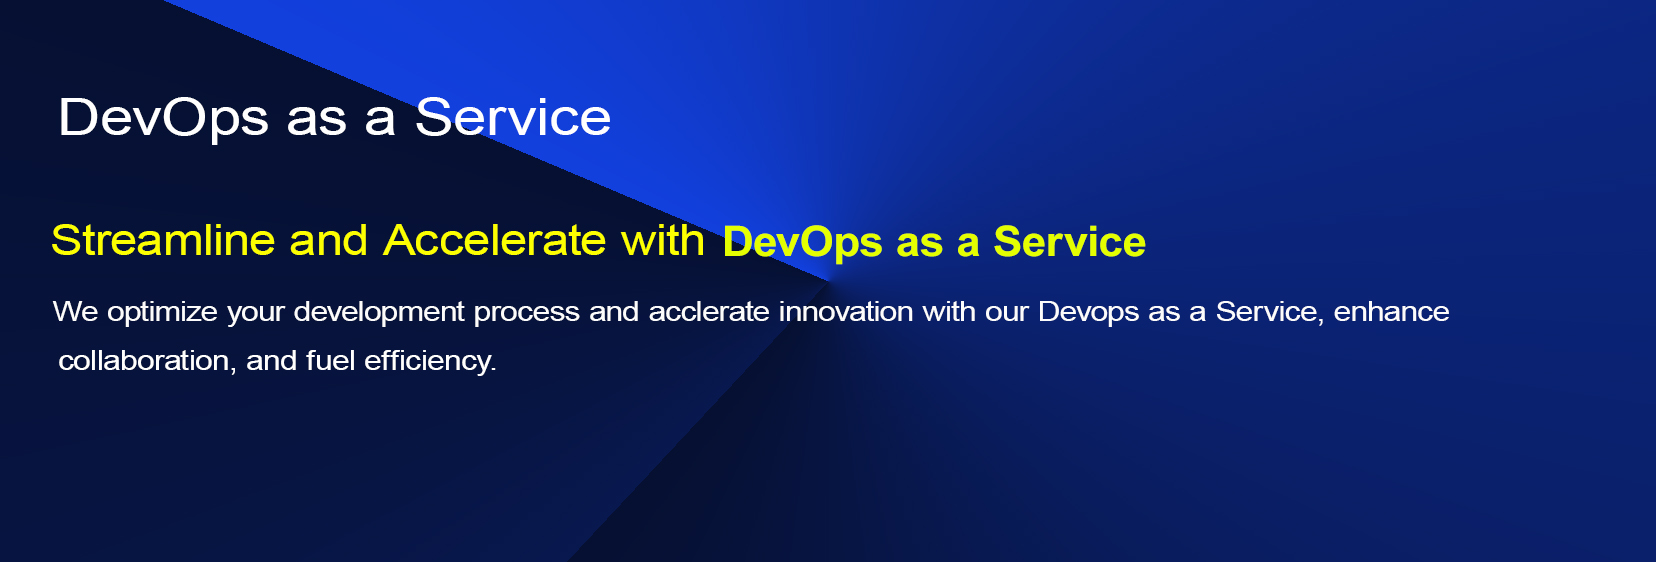
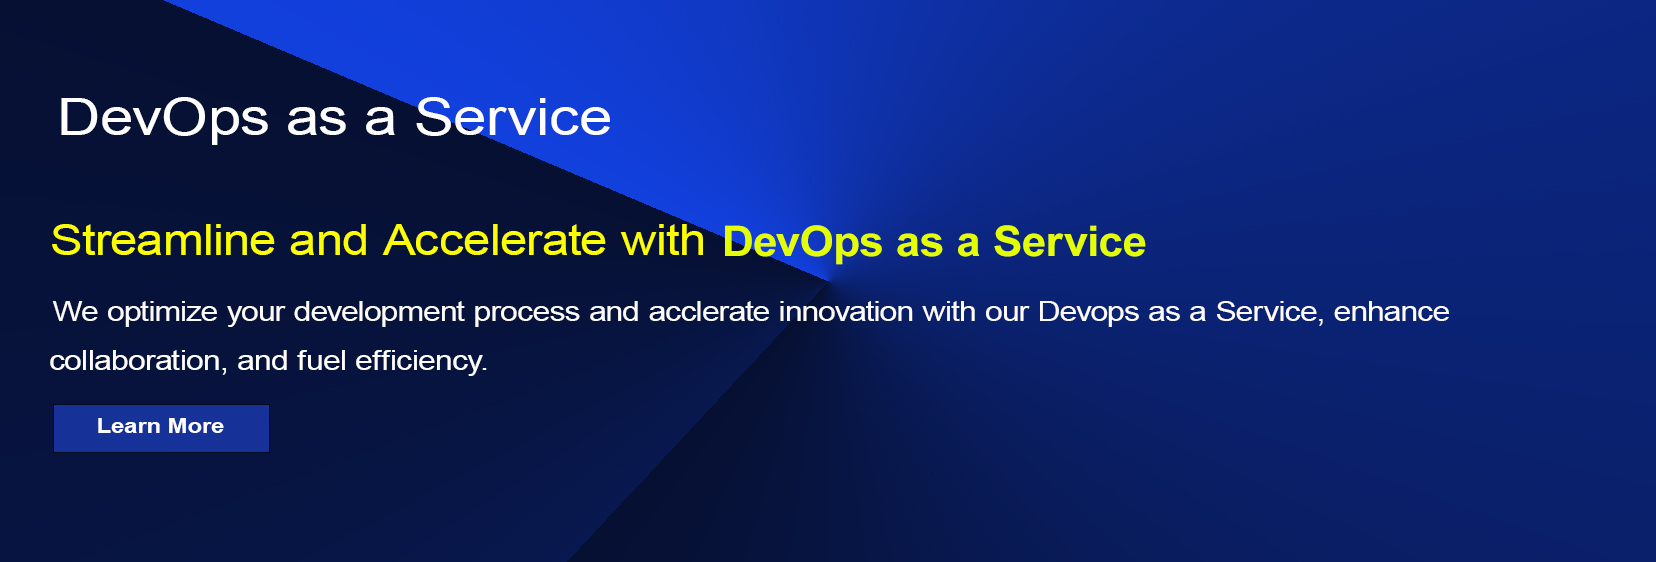
Carosel buttons added

Changed region(s): [[0.0308, 0.6957, 0.1848, 0.8167], [0.0308, 0.605, 0.308, 0.6655]]

diff --git a/src/components/Home.js b/src/components/Home.js
@@ -18,24 +18,39 @@ function Home(){
             		<div className="col-14 mx-auto">
        					 <div className="carousel-wrapper">
           					  	<Carousel infiniteLoop useKeyboardArrows autoPlay showThumbs={false} >
-               						 <div href="/home">
-                						<img src="../Image/Carousel/DevopsasServicesdoc.jpg"   />
+									
+									<NavLink to="/Services" >
+									 <div href="/home">
+                						<img src="../Image/Carousel/DevopsasServicesdoc.jpg"  /> 
+										{/* <img src="../Image/Carousel/DevopsasServicesdocnew.jpg"  /> 		 */}
                						 </div>
-                					 <div>
+									</NavLink>
+									<NavLink to="/24x7-sre" >
+                					 <div  >
                   						  <img src="../Image/Carousel/sresilde.jpg" />
                 					</div>
+									</NavLink>
+									<NavLink to="/managed-services" >
                						 <div>
-                   						  <img src="../Image/Carousel/managedservices.jpg" />
+                   			
+											 <img src="../Image/Carousel/managedservicesnew.jpg" />
                 					</div>
+									</NavLink>
+									<NavLink to="/manpower-and-technology-consulting" >
                 					<div>
                   						  <img src="../Image/Carousel/manpowerslide.jpg" />
                						 </div>
+										</NavLink>
+										<NavLink to="/software-testing" >
 										<div>
-                   							 <img src="../Image/Carousel/softwaretestingslide.jpg" />
+                   							 <img src="../Image/Carousel/sofwaretestingslide.jpg" />
                							 </div>
+											</NavLink>
+											<NavLink to="/cloud-security" >
                 					<div>
                    						 <img src="../Image/Carousel/cloudslide.jpg" />
                 					</div>
+									</NavLink>
            					 </Carousel>
        					 </div>
         			</div>
@@ -44,10 +59,39 @@ function Home(){
 
 
 
+				{/* <p>
+  <a class="btn btn-primary" data-bs-toggle="collapse.show" data-bs-target="#multiCollapseExample1" role="button" aria-expanded="false" aria-controls="multiCollapseExample1">Toggle first element</a>
+  <button class="btn btn-primary" type="button" data-bs-toggle="collapse.show" data-bs-target="#multiCollapseExample2"  aria-expanded="false" aria-controls="multiCollapseExample2">Toggle second element</button>
+  <button class="btn btn-primary" type="button" data-bs-toggle="collapse" data-bs-target=".multi-collapse" aria-expanded="false" aria-controls="multiCollapseExample3">Toggle both elements</button>
+</p>
+<div class="row">
+  <div class="col">
+    <div class="collapse multi-collapse" id="multiCollapseExample1">
+    
+        Some placeholder content for the first collapse component of this multi-collapse example. This panel is hidden by default but revealed when the user activates the relevant trigger.
+      
+    </div>
+  </div>
+  <div class="col">
+    <div class="collapse multi-collapse" id="multiCollapseExample2">
+      <div class="card card-body">
+        Some placeholder content for the second collapse component of this multi-collapse example. This panel is hidden by default but revealed when the user activates the relevant trigger.
+      </div>
+    </div>
+  </div>
+  <div class="col">
+    <div class="collapse multi-collapse" id="multiCollapseExample3">
+      <div class="card card-body">
+        Some placeholder content for the second collapse component of this multi-collapse example. This panel is hidden by default .
+      </div>
+    </div>
+  </div>
+</div> */}
+
 
 				
 
-		 				<div className="row AbutUs">
+		 				{/* <div className="row AbutUs">
   							<button className="btnbtn-default border-inline-start-color abouttext" type="button" data-bs-toggle="collapse" data-bs-target="#collapseExample" aria-expanded="false" aria-controls="collapseExample" >
  								 About Us
  							 </button>
@@ -84,7 +128,7 @@ function Home(){
   												<p>At InOutTek, we measure our success by yours. Our vision is to be at the forefront of innovation, enabling you to thrive in a constantly evolving business landscape. With us, your aspirations become reality, and your challenges turn into opportunities.</p>
  											 </div>
 										</div>
-									</div>
+									</div> */}
 
 
 									<div className='homeAboutIntroContentTitle bg-light  '>

diff --git a/src/components/styles/home.css b/src/components/styles/home.css
@@ -564,9 +564,7 @@ font-size: 1.25rem;
   overflow: hidden;
 }
 
-/* .service-text{
-  text-align: start;
-} */
+
 
 
 #myDIV {
@@ -575,5 +573,11 @@ font-size: 1.25rem;
   text-align: center;
   background-color: lightblue;
   margin-top: 20px;
+}
+
+
+.elementor-slide-button{
+  font-family: var(--e-global-typography-accent-font-family), Sans-serif;
+  font-weight: var(--e-global-typography-accent-font-weight);
 }
 
